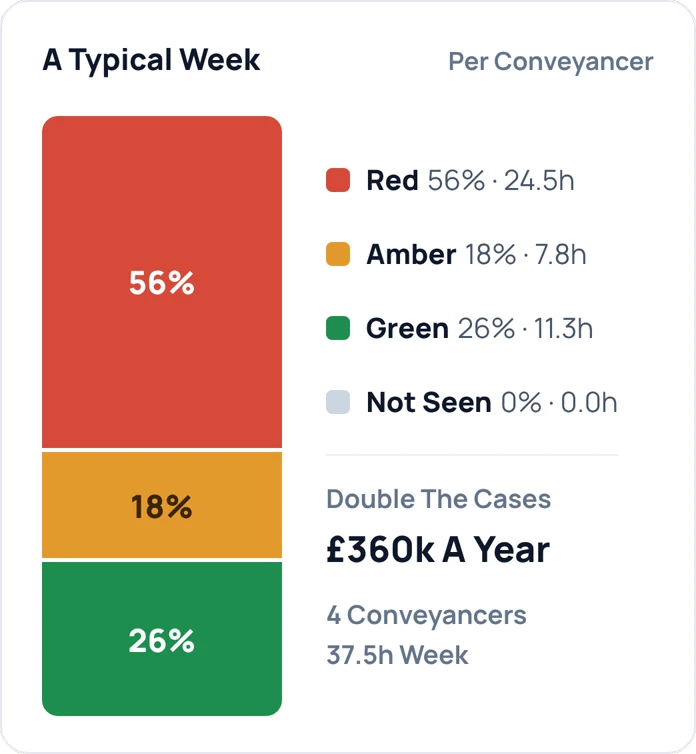
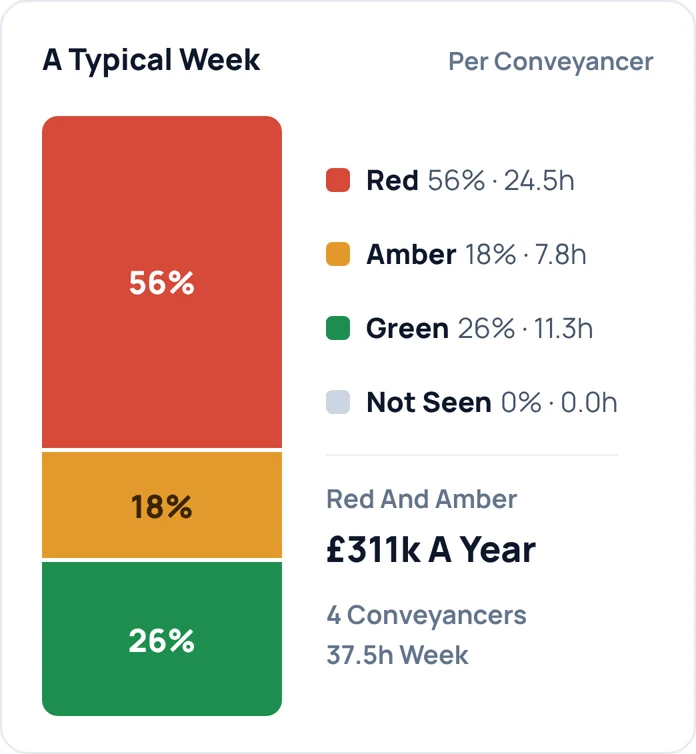
Measurement: back to £311k for the red and amber, every minute at £1,314
Drops the doubling headline and the rising value per minute: each hour a
week is valued at the first minute's £1,314 a case again.

Claude-Session: https://claude.ai/code/session_01ENxd8iCZjhhxKm8BJpVMKX

Changed region(s): [[0.5129, 0.7016, 0.7845, 0.7626], [0.4828, 0.6406, 0.7845, 0.6711]]

diff --git a/app/conveyi/(app)/integrations/measure/page.tsx b/app/conveyi/(app)/integrations/measure/page.tsx
@@ -9,7 +9,7 @@ import { ArrowLeft, Check, ChevronRight, Loader, X } from '@/app/shared/icons';
 import { MIN_SENT_PER_WEEK, type Measurement } from '@/lib/server/epa/measure';
 import type { ScanCounts } from '@/lib/server/workload/scan';
 import { workingDaysBetween } from '@/lib/server/engine/working-days';
-import { DOUBLING_VALUE, MINUTES_PER_CASE, minutesPerCase, pounds, VALUE_BASIS, yearValueOfWeeklyHours } from '@/lib/value';
+import { pounds, VALUE_BASIS, yearValueOfWeeklyHours } from '@/lib/value';
 
 /**
  * The onboarding measurement (docs/epa-categories.md): each conveyancer scans two months of their own inbox and InTouch once,
@@ -273,21 +273,16 @@ export default function MeasurePage() {
             const each = (h: number) => h / m.people;
             const hours = { red: each(m.hours.red), amber: each(m.hours.amber), green: each(m.hours.green) };
             const worth = (h: number) => pounds(yearValueOfWeeklyHours(h));
-            // The headline: doubling the cases where the red and amber are half the week or more, else what they are worth.
-            const waste = hours.red + hours.amber;
-            const headline = minutesPerCase(waste) >= MINUTES_PER_CASE / 2
-              ? { label: 'Double The Cases', value: DOUBLING_VALUE }
-              : { label: 'Red And Amber', value: yearValueOfWeeklyHours(waste) };
             const basis = (
               <span className="tv-tipped" tabIndex={0}>
-                <span className="tv-tip" role="tooltip"><b>Worth A Year</b>Each on its own. Based on {VALUE_BASIS.completionsPerMonth} completions a month and £{VALUE_BASIS.averageFee.toLocaleString('en-GB')} in average fees.</span>
+                <span className="tv-tip" role="tooltip"><b>Worth A Year</b>Based on {VALUE_BASIS.completionsPerMonth} completions a month and £{VALUE_BASIS.averageFee.toLocaleString('en-GB')} in average fees.</span>
                 Hours A Week · Worth A Year
               </span>
             );
             return (
               <div className="tv-top">
                 <RagCard title="A Typical Week" right="Per Conveyancer" hours={hours} share={m.share} unseen={{ hours: each(m.hours.unseen), share: m.share.unseen }}
-                  foot={<>{headline.label}<b className="ms-worth">{pounds(headline.value)} A Year</b>{m.people} {m.people === 1 ? 'Conveyancer' : 'Conveyancers'}<br />{m.contractedHours}h Week</>} />
+                  foot={<>Red And Amber<b className="ms-worth">{worth(hours.red + hours.amber)} A Year</b>{m.people} {m.people === 1 ? 'Conveyancer' : 'Conveyancers'}<br />{m.contractedHours}h Week</>} />
                 <ParetoCard lines={m.lines.map((l) => ({ ...l, hours: each(l.hours) }))} right={basis} value={worth} />
               </div>
             );

diff --git a/lib/value.ts b/lib/value.ts
@@ -1,32 +1,19 @@
 /**
  * What a conveyancer's time is worth: the basis the landing page's "every minute saved per case" figure and the
  * Measurement page's values share. A conveyancer works 220 days of 7.5 hours and completes 30 cases a month at £1,000
- * in fees each: 99,000 minutes over 360 cases is 275 minutes a case. Save s minutes a case and the same year holds
- * 99,000 / (275 − s) cases. The first minute is worth £1,314; each one after is worth more, and saving half of every
- * case doubles the cases: £360,000.
+ * in fees each: 99,000 minutes over 360 cases is 275 minutes a case. Save one minute a case and the same year holds
+ * 99,000 / 274 cases, 1.3 more, worth £1,314.
  */
 export const VALUE_BASIS = { workingDays: 220, hoursPerDay: 7.5, completionsPerMonth: 30, averageFee: 1000 } as const;
 
 const yearMinutes = VALUE_BASIS.workingDays * VALUE_BASIS.hoursPerDay * 60;
 const casesPerYear = VALUE_BASIS.completionsPerMonth * 12;
-/** 275. */
-export const MINUTES_PER_CASE = yearMinutes / casesPerYear;
 
-/** The extra fees a year from one conveyancer saving this many minutes on every case. */
-export const yearValueOfMinutesSaved = (minutes: number) =>
-  minutes <= 0 ? 0 : (yearMinutes / Math.max(1, MINUTES_PER_CASE - minutes) - casesPerYear) * VALUE_BASIS.averageFee;
+/** A minute saved on every case, for one conveyancer for a year, in pounds: £1,314. */
+export const MINUTE_PER_CASE_VALUE = Math.round((yearMinutes / (yearMinutes / casesPerYear - 1) - casesPerYear) * VALUE_BASIS.averageFee);
 
-/** The first minute saved on every case, for one conveyancer for a year, in pounds: £1,314. */
-export const MINUTE_PER_CASE_VALUE = Math.round(yearValueOfMinutesSaved(1));
-
-/** Double the cases: £360,000 a conveyancer a year. */
-export const DOUBLING_VALUE = yearValueOfMinutesSaved(MINUTES_PER_CASE / 2);
-
-/** Hours a week of one conveyancer's time, as minutes on each case. */
-export const minutesPerCase = (weeklyHours: number) => (weeklyHours * 60 * (VALUE_BASIS.workingDays / 5)) / casesPerYear;
-
-/** Hours a week of one conveyancer's time saved, on their own, worth a year. */
-export const yearValueOfWeeklyHours = (hours: number) => yearValueOfMinutesSaved(minutesPerCase(hours));
+/** An hour a week of one conveyancer's time, for a year, in pounds: the minutes it frees on each case at the rate above. */
+export const yearValueOfWeeklyHours = (hours: number) => (hours * 60 * (VALUE_BASIS.workingDays / 5) / casesPerYear) * MINUTE_PER_CASE_VALUE;
 
 /** £50k, £9,600. */
 export const pounds = (x: number) => (x >= 10_000 ? `£${Math.round(x / 1000)}k` : `£${Math.round(x).toLocaleString('en-GB')}`);

diff --git a/app/conveyi/page.tsx b/app/conveyi/page.tsx
@@ -209,10 +209,10 @@ export default function Page() {
           <SectionHead title="See how much spare capacity you can win back on a demo" />
           {/* The two cards from the measurement, as they are in the app: side by side on a laptop, one above the other on a phone, where Key Issues shows its top six so the labels stay readable. Per conveyancer, valued on lib/value.ts. */}
           <div className="mx-auto mt-16 grid max-w-md items-start gap-5 md:max-w-5xl md:grid-cols-[1fr_2fr] md:gap-6">
-            <img src="/product/app-measure-week.webp" width={696} height={754} alt="A typical week per conveyancer: 56% red, 18% amber, 26% green; red and amber enough to double the cases, worth £360k a year." className="block h-auto w-full [filter:drop-shadow(0_14px_24px_rgba(21,16,31,0.12))]" />
+            <img src="/product/app-measure-week.webp" width={696} height={754} alt="A typical week per conveyancer: 56% red, 18% amber, 26% green; the red and amber worth £311k a year." className="block h-auto w-full [filter:drop-shadow(0_14px_24px_rgba(21,16,31,0.12))]" />
             <picture>
               <source media="(min-width: 768px)" srcSet="/product/app-measure-issues-card.webp" width={1392} height={754} />
-              <img src="/product/app-measure-issues-narrow.webp" width={1008} height={742} alt="Key Issues: the hours a week each kind of work takes a conveyancer, and what each is worth a year, from answering client status requests (5.2 hours, £58k) down." className="block h-auto w-full [filter:drop-shadow(0_14px_24px_rgba(21,16,31,0.12))]" />
+              <img src="/product/app-measure-issues-narrow.webp" width={1008} height={742} alt="Key Issues: the hours a week each kind of work takes a conveyancer, and what each is worth a year, from answering client status requests (5.2 hours, £50k) down." className="block h-auto w-full [filter:drop-shadow(0_14px_24px_rgba(21,16,31,0.12))]" />
             </picture>
           </div>
           <div className="mt-12 flex justify-center">

diff --git a/tests/unit/marketing/value.test.ts b/tests/unit/marketing/value.test.ts
@@ -1,28 +1,18 @@
 /** What a conveyancer's time is worth (lib/value.ts): the landing page's £1,314 and the Measurement page's values. */
 import { test } from 'node:test';
 import assert from 'node:assert/strict';
-import { DOUBLING_VALUE, MINUTE_PER_CASE_VALUE, minutesPerCase, pounds, yearValueOfMinutesSaved, yearValueOfWeeklyHours } from '../../../lib/value';
+import { MINUTE_PER_CASE_VALUE, pounds, yearValueOfWeeklyHours } from '../../../lib/value';
 
-test('the first minute saved on every case is worth £1,314 a year', () => {
+test('a minute saved on every case is worth £1,314 a year', () => {
   assert.equal(MINUTE_PER_CASE_VALUE, 1314);
 });
 
-test('each minute after is worth more than the one before', () => {
-  const second = yearValueOfMinutesSaved(2) - yearValueOfMinutesSaved(1);
-  assert.ok(second > MINUTE_PER_CASE_VALUE);
-});
-
-test('saving half of every case doubles the cases: £360k', () => {
-  assert.equal(Math.round(DOUBLING_VALUE), 360_000);
-});
-
-test('an hour a week is 7⅓ minutes on each of 360 cases', () => {
-  assert.equal(Math.round(minutesPerCase(1) * 300), 2200);
-  assert.equal(Math.round(yearValueOfWeeklyHours(1)), Math.round(yearValueOfMinutesSaved(22 / 3)));
+test('an hour a week is the 7⅓ minutes it frees on each of 360 cases', () => {
+  assert.equal(Math.round(yearValueOfWeeklyHours(1)), Math.round((44 * 60 / 360) * 1314));
   assert.equal(yearValueOfWeeklyHours(0), 0);
 });
 
 test('pounds: thousands from £10k, whole pounds below', () => {
-  assert.equal(pounds(57_633), '£58k');
+  assert.equal(pounds(50_110), '£50k');
   assert.equal(pounds(9_636.4), '£9,636');
 });

diff --git a/docs/epa-categories.md b/docs/epa-categories.md
@@ -66,7 +66,7 @@ So the headline is "**at most** 25% of your week moves cases on": an upper bound
 - **The scan** (`lib/server/workload/scan.ts`): Sent Items, then the Inbox, then InTouch when it is connected. Up to 15,000 messages a person, enough for 200–300 received and 60–80 sent a day. Classified on the classify model (Haiku), 15 emails a call, the first 900 characters of what was written, nothing stored but the label. It now tells resends from first sends, and process questions from legal ones (prompt `wl-2`).
 - **InTouch:** the person's 60 most recently updated cases (InTouch's fee earner is them, by email or name) that were live or touched in the window, completed ones included. Every document and note the firm filed on them in the window, with when it was filed, goes on the person's timeline beside their email (lib/server/epa/measure.ts), classed by what it is: reports on title, enquiries, contracts and transfers are legal work; completion statements, SDLT and Land Registry papers are paperwork; anything else filed is filing. Email records are left out (InTouch's own Exchange filing may have put them there); client uploads are not our time. If no case has the person as fee earner, the page says so and names the fee earners InTouch does have. InTouch's tasks carry no completion date, so they are not read. Who filed an item is not in InTouch's data: items are credited to the case's fee earner. Field names to confirm on a live account. "See What It Read" lists every InTouch document and note it read, with its case.
 - **The figures** (`lib/server/epa/measure.ts`): the same model as the live page. Every sent email and every document or note the firm filed in InTouch is an action at a time; the time before it is that kind of work, capped by what the work takes (routine: three times its typical minutes, never under 15; legal work: three hours). Outlook's draft-to-send time is writing. Every received email is reading time of its kind when it arrived. So **green is measured**: the time before legal emails and before the legal documents the firm filed (reports on title, enquiries, contracts, transfers). What nothing accounts for is **Not Seen** (grey): calls, meetings, files read with nothing sent after. It is shown, never counted as green.
-- **The page:** a strip of figures (your scan's window; sent, received and set aside as a day's average over its working days; InTouch cases and filings, the firm's average reply time), then A Typical Week and Key Issues (the Pareto), both per conveyancer (the firm's total over the people scanned), with what each is worth a year on its own (`lib/value.ts`: 30 completions a month at £1,000, 220 days of 7.5 hours, so 275 minutes a case; saving s minutes a case holds 99,000 / (275 − s) cases, so the first minute is £1,314 and each after is worth more). A Typical Week's headline is doubling the cases, £360k, where the red and amber are half the week or more; else what the red and amber are worth. No actions: this is the measurement, not the action page.
+- **The page:** a strip of figures (your scan's window; sent, received and set aside as a day's average over its working days; InTouch cases and filings, the firm's average reply time), then A Typical Week and Key Issues (the Pareto), both per conveyancer (the firm's total over the people scanned), with what the red and amber are worth a year (`lib/value.ts`: 30 completions a month at £1,000, 220 days of 7.5 hours; an hour a week is the minutes it frees on each case at £1,314 a minute a case). No actions: this is the measurement, not the action page.
 - **Average reply time:** each case email received, to the next email the person sent on that conversation, everyone's averaged, in clock time (what the person waiting goes through). Two people waiting at once are two waits. Never-answered emails, and answers more than 14 days later (a new subject on an old thread), are left out.
 - **See What It Read** lists what the scan kept (its subject and who with, as names and domains: migration 128), never reading the mailbox again. Scans before migration 128 show no subjects.
 - **No checking:** nobody is asked to mark the model's labels; the scan finishes as complete. The old Baseline page, and its sample check, are retired (it redirects to Measurement).
